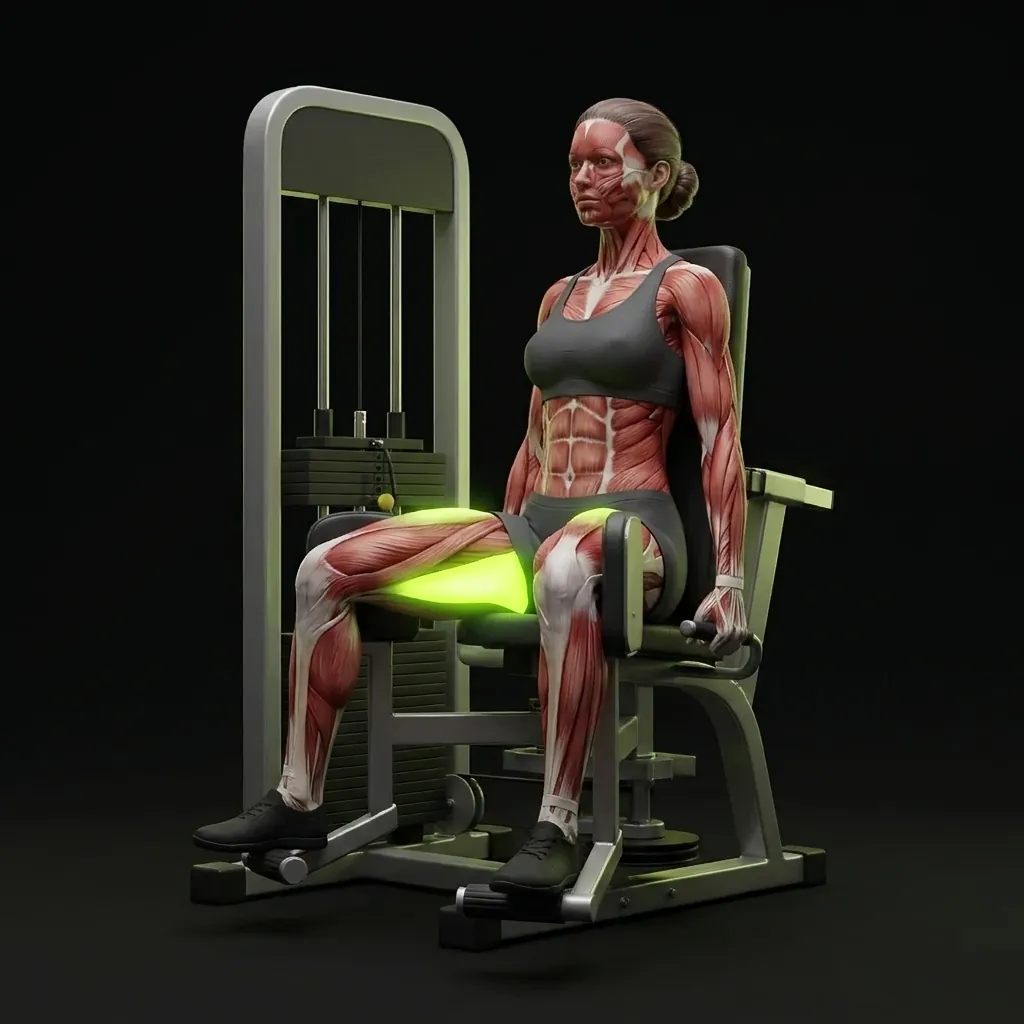
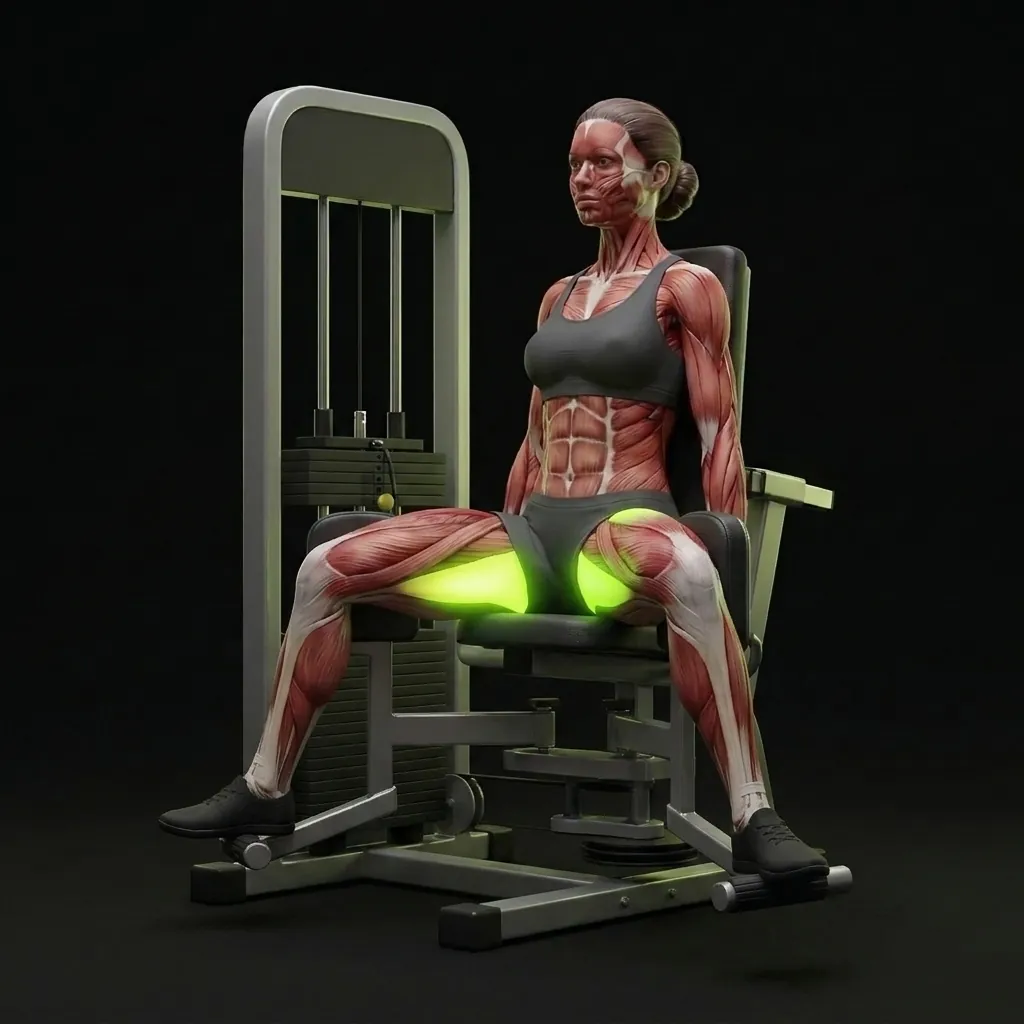
Audit: rasmlardagi xatolar — db-bench va cable-fly harakati, noto'g'ri kadrlar
- db-bench, cable-fly: asosiy kadr ham alt/ faylga ko'rsatardi, Flow-2 ikkinchi kadri uni
  ustidan yozgan — harakat va yorliqlar noto'g'ri edi. Asosiy rasmlar tiklandi;
  place_flow.py endi bunday holatda asosiy kadrni <id>.webp ga ko'chiradi.
- bird-dog: cho'zilgan holatda qo'l va oyoq bir tomonda edi — boshlang'ich holat qoldi.
- hip-adduction: "yopilgan" kadrda tizzalar ochiq edi — boshlang'ich holat qoldi.
- mountain-climber, bicycle-crunch: ikkinchi kadrda oyoq/tomon almashmagan;
  hip-abduction, seated-calf-raise: ikki kadr deyarli bir xil — bitta kadr qoldi.
- Rasm tavsiflari aniqlashtirildi (bird-dog qarama-qarshi tomon, hip-abduction old
  tomondan, seated-calf-raise tovon plastinkadan yuqori), Flow-5 uchun.

Claude-Session: https://claude.ai/code/session_01YMj6wH5fmDxefKDcAM65Dx

Changed region(s): [[0.4375, 0.4688, 0.8438, 0.9062], [0.1562, 0.4688, 0.5, 0.875]]

diff --git a/scripts/images/pairsNew.ts b/scripts/images/pairsNew.ts
@@ -28,14 +28,14 @@ export const NEW_PAIRS: Record<string, PairSpec> = {
   'bird-dog': { phaseUz: START, change: 'the start on all fours: both hands under the shoulders and both knees under the hips on the mat, back flat like a table' },
   'side-plank': { phaseUz: START, change: 'the start: lying on the side with the hip resting on the mat, the bottom forearm already under the shoulder, legs stacked, top arm resting along the body' },
   'reverse-crunch': { phaseUz: START, change: 'the start: lying flat with the pelvis and lower back on the floor, knees bent 90° directly above the hips (shins parallel to the floor), arms beside the body' },
-  'bicycle-crunch': { phaseUz: 'Ikkinchi tomon', change: 'the twist to the OTHER side: the other knee pulled toward the chest and the other shoulder rotated toward it, the first leg now extended straight just above the floor' },
-  'mountain-climber': { phaseUz: 'Ikkinchi oyoq', change: 'the legs switched: the other knee driven forward under the chest and the first leg extended straight back on the ball of the foot; hands, arms and hip height exactly the same' },
+  'bicycle-crunch': { phaseUz: 'Ikkinchi tomon', change: 'the twist to the OTHER side — mirror the legs and the twist: the knee that is bent toward the chest in image 1 is now extended straight just above the floor, and the leg that is straight in image 1 is now bent with its knee pulled toward the chest; the torso rotates the other way so the OTHER shoulder moves toward this knee. Hands at the temples and elbows wide as before' },
+  'mountain-climber': { phaseUz: 'Ikkinchi oyoq', change: 'the legs SWAPPED: the leg that is bent forward under the chest in image 1 is now extended straight back on the ball of the foot, and the leg that is straight back in image 1 is now bent with its knee driven forward under the chest and the foot off the floor. Hands, arms, head and hip height exactly the same' },
   /* ---------- trenajyorlar ---------- */
   'hip-abduction': { phaseUz: START, change: 'the start: knees together, the two thigh pads close together on the outside of the thighs, seated upright on the same machine' },
   'hip-adduction': { phaseUz: START, change: 'the start: knees spread wide apart (about 40–45° each side), the two thigh pads opened with the thighs on the inside, seated upright on the same machine' },
   'cable-kickback': { phaseUz: START, change: 'the start: the working leg under the hip beside the support leg, knee slightly bent, foot just behind the support foot; the cable from the low pulley to the ankle cuff still taut' },
   'cable-pull-through': { phaseUz: START, change: 'standing tall at the top: hips and knees extended, glutes squeezed, the rope ends held in straight arms in front of the hips, the cable still running back between the legs to the same low pulley' },
-  'seated-calf-raise': { phaseUz: START, change: 'the bottom: heels lowered below the edge of the foot plate (ankles flexed, calves stretched), the padded lever lower on the thighs accordingly' },
+  'seated-calf-raise': { phaseUz: START, change: 'the bottom: heels lowered well BELOW the front edge of the foot plate (ankles flexed, calves stretched), only the balls of the feet on the edge; the padded knee lever is lower on the thighs accordingly' },
   'assisted-pull-up': { phaseUz: START, change: 'the bottom: arms fully extended overhead holding the same handles, kneeling on the same assist platform, which has moved up with the body; shoulders still down away from the ears' },
   'preacher-curl': { phaseUz: START, change: 'the start: arms extended almost straight down the angled pad (elbows slightly bent), the EZ bar lowered near the bottom of the pad, upper arms still flat on the pad' },
   't-bar-row': { phaseUz: START, change: 'the bottom: arms fully straight, the plates lowered close to the floor in front of the shins, both hands still gripping the bar just behind the plates; the bar is still ONE straight line from the same floor pivot through the hands to the plates; torso angle, legs and feet unchanged' },

diff --git a/src/data/illustrations.ts b/src/data/illustrations.ts
@@ -481,7 +481,7 @@ export const ILLUSTRATIONS: Partial<Record<string, Illustration>> = {
     ],
   },
   'db-bench': {
-    src: img('alt/db-bench.webp'),
+    src: img('db-bench.webp'),
     phase: 'Yuqori nuqta',
     pair: { src: img('alt/db-bench.webp'), phase: 'Pastki nuqta' },
     alt: 'Gantel bilan yotib jim, yuqori nuqta: qo‘llar yozilgan, gantellar ko‘krak ustida; ishlayotgan mushaklar lime rangda yonmoqda',
@@ -558,7 +558,7 @@ export const ILLUSTRATIONS: Partial<Record<string, Illustration>> = {
     ],
   },
   'cable-fly': {
-    src: img('alt/cable-fly.webp'),
+    src: img('cable-fly.webp'),
     phase: 'Boshlang‘ich holat',
     pair: { src: img('alt/cable-fly.webp'), phase: 'Qisqargan holat' },
     alt: 'Krossoverda qo‘l birlashtirish, boshlang‘ich holat: qo‘llar keng ochilgan, tirsak biroz bukilgan; ishlayotgan mushaklar lime rangda yonmoqda',
@@ -1047,13 +1047,11 @@ export const ILLUSTRATIONS: Partial<Record<string, Illustration>> = {
     src: img('bicycle-crunch.webp'),
     phase: 'Qisqargan holat',
     alt: '«Velosiped», qisqargan holat: to‘g‘ri texnika; ishlayotgan mushaklar lime rangda yonmoqda',
-    pair: { src: img('alt/bicycle-crunch.webp'), phase: 'Ikkinchi tomon' },
   },
   'bird-dog': {
     src: img('bird-dog.webp'),
-    phase: 'Cho‘zilgan holat',
-    alt: '«Qush-it», cho‘zilgan holat: to‘g‘ri texnika; ishlayotgan mushaklar lime rangda yonmoqda',
-    pair: { src: img('alt/bird-dog.webp'), phase: 'Boshlang‘ich holat' },
+    phase: 'Boshlang‘ich holat',
+    alt: '«Qush-it», boshlang‘ich holat: to‘rt oyoqda, kaftlar yelka ostida, tizzalar tos ostida, bel tekis; ishlayotgan mushaklar lime rangda yonmoqda',
   },
   butterfly: {
     src: img('butterfly.webp'),
@@ -1155,13 +1153,11 @@ export const ILLUSTRATIONS: Partial<Record<string, Illustration>> = {
     src: img('hip-abduction.webp'),
     phase: 'Ochilgan holat',
     alt: 'Trenajyorda sonni ochish, ochilgan holat: to‘g‘ri texnika; ishlayotgan mushaklar lime rangda yonmoqda',
-    pair: { src: img('alt/hip-abduction.webp'), phase: 'Boshlang‘ich holat' },
   },
   'hip-adduction': {
     src: img('hip-adduction.webp'),
-    phase: 'Yopilgan holat',
-    alt: 'Trenajyorda sonni yopish, yopilgan holat: to‘g‘ri texnika; ishlayotgan mushaklar lime rangda yonmoqda',
-    pair: { src: img('alt/hip-adduction.webp'), phase: 'Boshlang‘ich holat' },
+    phase: 'Boshlang‘ich holat',
+    alt: 'Trenajyorda sonni yopish, boshlang‘ich holat: tizzalar keng ochilgan, yostiqlar sonning ichki tomonida; ishlayotgan mushaklar lime rangda yonmoqda',
   },
   'hip-flexor-stretch': {
     src: img('hip-flexor-stretch.webp'),
@@ -1173,7 +1169,6 @@ export const ILLUSTRATIONS: Partial<Record<string, Illustration>> = {
     src: img('mountain-climber.webp'),
     phase: 'Qisqargan holat',
     alt: '«Alpinist», qisqargan holat: to‘g‘ri texnika; ishlayotgan mushaklar lime rangda yonmoqda',
-    pair: { src: img('alt/mountain-climber.webp'), phase: 'Ikkinchi oyoq' },
   },
   'neck-stretch': {
     src: img('neck-stretch.webp'),
@@ -1213,9 +1208,8 @@ export const ILLUSTRATIONS: Partial<Record<string, Illustration>> = {
   },
   'seated-calf-raise': {
     src: img('seated-calf-raise.webp'),
-    phase: 'Yuqori nuqta',
-    alt: 'O‘tirib boldir ko‘tarish, yuqori nuqta: to‘g‘ri texnika; ishlayotgan mushaklar lime rangda yonmoqda',
-    pair: { src: img('alt/seated-calf-raise.webp'), phase: 'Boshlang‘ich holat' },
+    phase: 'Tayyor holat',
+    alt: 'O‘tirib boldir ko‘tarish, tayyor holat: oyoq uchlari platformada, yostiq son ustida; ishlayotgan mushaklar lime rangda yonmoqda',
   },
   'side-leg-raise': {
     src: img('side-leg-raise.webp'),

diff --git a/scripts/images/specsMachines.ts b/scripts/images/specsMachines.ts
@@ -9,7 +9,7 @@ export const MACHINES_SPECS: Record<string, ExerciseSpec> = {
   'hip-abduction': {
     phase: 'the open position, knees pushed fully apart',
     phaseUz: 'Ochilgan holat',
-    camera: `${REAR34} — so the outer hips and the glutes on the seat are clearly visible`,
+    camera: 'straight FRONT view at hip height, 50mm lens — so the distance between the knees and the outward movement of the thighs are clearly visible',
     technique: [
       'Seated upright with the back against the backrest, feet on the two foot bars, thighs roughly parallel to the floor.',
       'The two thigh pads press on the OUTSIDE of the thighs just above the knees; the knees are pushed outward against them to about 40–45° of hip abduction on each side.',
@@ -24,7 +24,7 @@ export const MACHINES_SPECS: Record<string, ExerciseSpec> = {
     camera: `${FRONT34} — so the inner thighs are clearly visible`,
     technique: [
       'Seated upright with the back against the backrest, feet on the two foot bars, thighs roughly parallel to the floor.',
-      'The two thigh pads press on the INSIDE of the thighs just above the knees; the knees are squeezed together until the pads almost touch.',
+      'The two thigh pads press on the INSIDE of the thighs just above the knees; the knees are squeezed together until the pads almost touch — the knees are only a hand-width apart, the thighs nearly parallel to each other.',
       'Hands grip the side handles beside the seat, hips stay down on the seat, torso upright.',
     ],
     equipment:
@@ -59,11 +59,11 @@ export const MACHINES_SPECS: Record<string, ExerciseSpec> = {
     camera: SIDE,
     technique: [
       'Seated with knees bent at 90°, thighs horizontal, the padded lever resting across the lower thighs just above the knees.',
-      'The balls of both feet on the edge of the foot plate, heels free; ankles fully extended so the heels are lifted as high as possible.',
+      'Only the balls of both feet on the FRONT EDGE of a small horizontal foot plate, the heels hanging free in the air behind the plate; ankles fully extended so the heels are lifted clearly ABOVE the plate (a visible gap of about 8 cm under each heel).',
       'Torso upright, hands holding the lever handles on top of the knee pad.',
     ],
     equipment:
-      'Plate-loaded seated calf raise machine: a low seat, a horizontal padded knee lever above the thighs with a safety catch handle and a weight-plate horn at its front end, and a small angled foot plate in front of the seat.',
+      'Plate-loaded seated calf raise machine: a low seat, a horizontal padded knee lever above the thighs with a safety catch handle and a weight-plate horn at its front end, and a small HORIZONTAL foot plate (a narrow step) in front of the seat, its front edge under the balls of the feet.',
   },
   'assisted-pull-up': {
     phase: 'the top position, chin above the handles',

diff --git a/scripts/images/specsHome.ts b/scripts/images/specsHome.ts
@@ -174,7 +174,7 @@ export const HOME_SPECS: Record<string, ExerciseSpec> = {
     camera: SIDE,
     technique: [
       'On all fours: one hand flat under the shoulder, the opposite knee under the hip.',
-      'The other arm extended straight forward at shoulder height, thumb up; the opposite leg extended straight back at hip height, toes pointing down.',
+      'OPPOSITE arm and leg: the arm NEARER the camera is extended straight forward at shoulder height, thumb up, and the leg FARTHER from the camera is extended straight back at hip height, toes pointing down; the far hand and the near knee stay on the mat. Never the arm and the leg of the same side.',
       'Back flat like a table, hips and shoulders level and square to the floor, neck neutral.',
     ],
     equipment: MAT,

diff --git a/scripts/images/flow-pack2.ts b/scripts/images/flow-pack2.ts
@@ -110,7 +110,8 @@ for (const [id, pair] of Object.entries(NEW_PAIRS)) {
 }
 
 /* ---------- 2. eski rasmlar ---------- */
-md.push('', '## 2. Eski rasmlar: xatolarni tuzatish va ikkinchi kadr', '', 'Ustuvorlik: **1** — noto‘g‘ri texnika, **2** — harakat yo‘q yoki noto‘g‘ri kadr, **3** — kosmetik.', '');
+if (OLD_FIXES.some((f) => want(f.id)))
+  md.push('', '## 2. Eski rasmlar: xatolarni tuzatish va ikkinchi kadr', '', 'Ustuvorlik: **1** — noto‘g‘ri texnika, **2** — harakat yo‘q yoki noto‘g‘ri kadr, **3** — kosmetik.', '');
 n = 0;
 for (const f0 of [...OLD_FIXES].sort((a, b) => a.priority - b.priority)) {
   if (!want(f0.id)) continue;

diff --git a/scripts/images/place_flow.py b/scripts/images/place_flow.py
@@ -86,6 +86,12 @@ for d in sorted(os.listdir(res_dir)):
             eq_ids.add(eid)
             placed.append(eid)
             continue
+        blk0 = entry_block(head, eid)
+        if has_b and blk0 and f"src: img('alt/{eid}.webp')" in head[blk0[0]:blk0[1]].split('pair:')[0]:
+            # asosiy kadr alt/ da turibdi — ikkinchi kadr uning ustiga yozilmasin: asosiy kadr <id>.webp ga ko'chiriladi
+            os.replace(f'public/illustrations/alt/{eid}.webp', f'public/illustrations/{eid}.webp')
+            s0, e0 = blk0
+            head = head[:s0] + head[s0:e0].replace(f"src: img('alt/{eid}.webp')", f"src: img('{eid}.webp')", 1) + head[e0:]
         if has_a:
             _thumb(save(a, f'public/illustrations/{eid}.webp', 1024), eid)
         if has_b:
